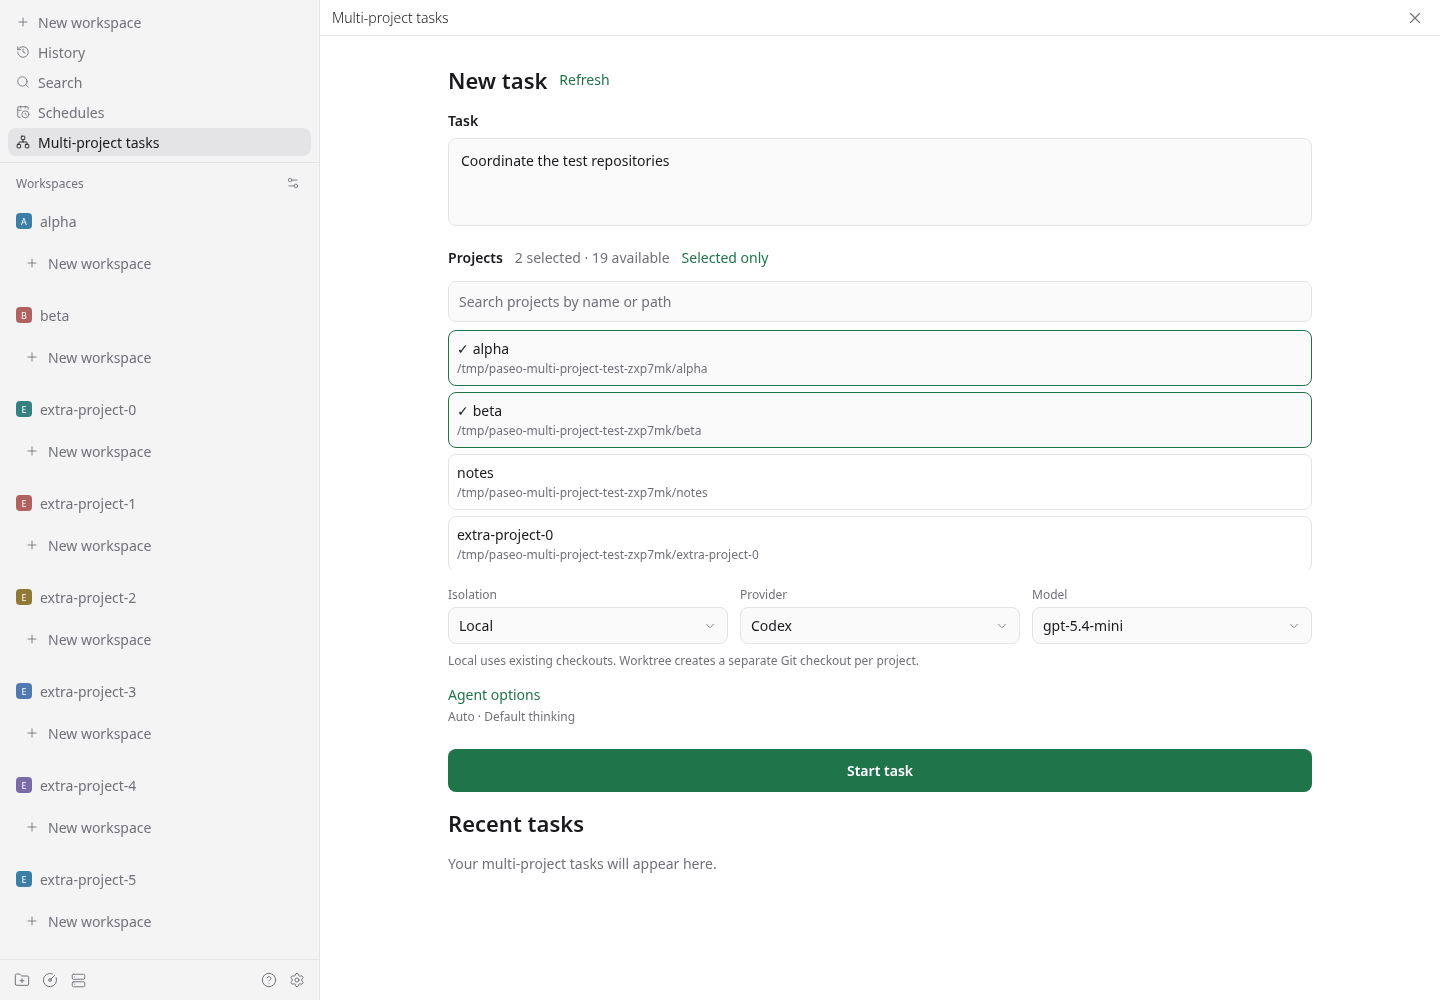
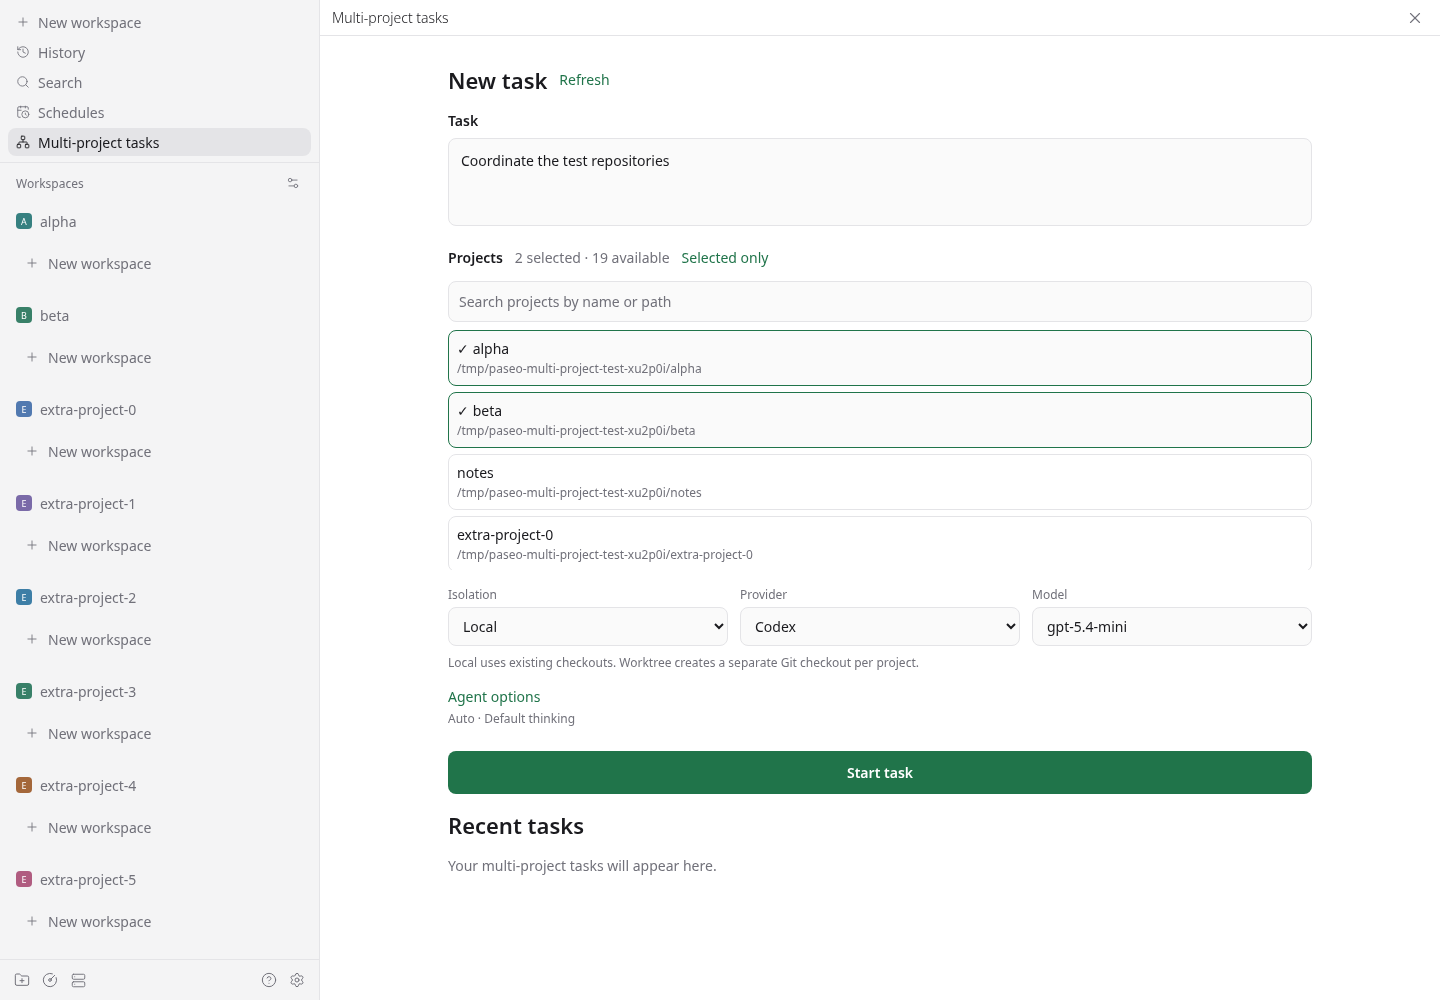
fix: use standard comboboxes for compact task settings

diff --git a/client/compact-select.tsx b/client/compact-select.tsx
@@ -1,110 +1,33 @@
-import { useState } from "react";
-import { Pressable, Text, View } from "react-native";
+import { Platform, Text, View } from "react-native";
 import type { PluginScreenProps } from "@getpaseo/plugin/client";
-import { Icon, Modal, ScrollView, TextInput } from "@getpaseo/plugin/client/ui";
+import { SettingsSelect } from "@getpaseo/plugin/client/ui";
+import { renderWebSelect } from "./web";
 
-export function CompactSelect<Value extends string>({
-  label,
-  value,
-  options,
-  disabled,
-  theme,
-  onValueChange,
-}: {
+export interface CompactSelectProps<Value extends string> {
   label: string;
   value: Value;
   options: readonly { value: Value; label: string }[];
   disabled?: boolean;
   theme: PluginScreenProps["theme"];
   onValueChange(value: Value): void;
-}) {
-  const [open, setOpen] = useState(false);
-  const [search, setSearch] = useState("");
-  const colors = theme.colors;
-  const selected = options.find((option) => option.value === value)?.label || value;
-  const visible = options.filter((option) =>
-    option.label.toLocaleLowerCase().includes(search.trim().toLocaleLowerCase()),
-  );
+}
+
+export function CompactSelect<Value extends string>(props: CompactSelectProps<Value>) {
+  if (Platform.OS !== "web") {
+    return (
+      <SettingsSelect
+        label={props.label}
+        value={props.value}
+        options={props.options}
+        disabled={props.disabled}
+        onValueChange={props.onValueChange}
+      />
+    );
+  }
   return (
     <View style={{ gap: 4 }}>
-      <Text style={{ color: colors.foregroundMuted, fontSize: 12 }}>{label}</Text>
-      <Pressable
-        accessibilityRole="button"
-        accessibilityLabel={`${label}: ${selected}`}
-        disabled={disabled}
-        onPress={() => {
-          setSearch("");
-          setOpen(true);
-        }}
-        style={{
-          flexDirection: "row",
-          alignItems: "center",
-          gap: 8,
-          borderWidth: 1,
-          borderColor: colors.border,
-          borderRadius: 8,
-          paddingHorizontal: 10,
-          paddingVertical: 8,
-          backgroundColor: colors.surface1,
-          opacity: disabled ? 0.5 : 1,
-        }}
-      >
-        <Text numberOfLines={1} style={{ color: colors.foreground, flex: 1 }}>
-          {selected}
-        </Text>
-        <Icon name="ChevronDown" size={14} color={colors.foregroundMuted} />
-      </Pressable>
-      <Modal title={label} open={open} onOpenChange={setOpen}>
-        <Modal.Content scrollable={false}>
-          {options.length > 8 ? (
-            <TextInput
-              accessibilityLabel={`Search ${label.toLowerCase()}`}
-              value={search}
-              onChangeText={setSearch}
-              placeholder="Search options"
-              placeholderTextColor={colors.foregroundMuted}
-              style={{
-                color: colors.foreground,
-                padding: 10,
-                borderWidth: 1,
-                borderColor: colors.border,
-                borderRadius: 8,
-              }}
-            />
-          ) : null}
-          <ScrollView
-            style={{ maxHeight: 360 }}
-            contentContainerStyle={{ gap: 4 }}
-            nestedScrollEnabled
-          >
-            {visible.map((option) => (
-              <Pressable
-                key={option.value}
-                accessibilityRole="radio"
-                accessibilityLabel={option.label}
-                accessibilityState={{ checked: value === option.value }}
-                onPress={() => {
-                  onValueChange(option.value);
-                  setOpen(false);
-                }}
-                style={{
-                  padding: 12,
-                  backgroundColor: value === option.value ? colors.surface1 : undefined,
-                  borderRadius: 8,
-                }}
-              >
-                <Text style={{ color: colors.foreground }}>
-                  {value === option.value ? "✓ " : ""}
-                  {option.label}
-                </Text>
-              </Pressable>
-            ))}
-            {visible.length === 0 ? (
-              <Text style={{ color: colors.foregroundMuted }}>No matching options.</Text>
-            ) : null}
-          </ScrollView>
-        </Modal.Content>
-      </Modal>
+      <Text style={{ color: props.theme.colors.foregroundMuted, fontSize: 12 }}>{props.label}</Text>
+      {renderWebSelect(props)}
     </View>
   );
 }

diff --git a/tests/browser.spec.ts b/tests/browser.spec.ts
@@ -101,8 +101,8 @@ for (const compact of [false, true]) {
       const picker = await page.getByTestId("multi-project-projects").boundingBox();
       expect(picker!.height).toBeLessThanOrEqual(compact ? 201 : 241);
       // Isolation can be chosen while the form is still empty.
-      await page.getByText("Local", { exact: true }).click();
-      await page.getByRole("radio", { name: "Worktree", exact: true }).click();
+      await page.getByRole("combobox", { name: "Isolation", exact: true }).selectOption("worktree");
+      await expect(page.getByRole("dialog")).toHaveCount(0);
       await page.getByTestId("multi-project-prompt").fill("Coordinate the test repositories");
       const search = page.getByTestId("multi-project-project-search");
       await search.fill("does-not-match");
@@ -116,23 +116,31 @@ for (const compact of [false, true]) {
       await page.getByTestId("multi-project-selected-only").click();
       await expect(page.getByTestId("multi-project-projects").getByRole("checkbox")).toHaveCount(2);
       await page.getByTestId("multi-project-selected-only").click();
-      await expect(page.getByText("Worktree", { exact: true })).toBeVisible();
+      await expect(page.getByRole("combobox", { name: "Isolation", exact: true })).toHaveValue(
+        "worktree",
+      );
       const notes = f.projects.find((p) => p.projectKind !== "git")!;
       await search.fill(notes.projectDisplayName);
       await page.getByTestId(`multi-project-target-${notes.projectId}`).click();
-      await expect(page.getByText("Local", { exact: true })).toBeVisible();
+      await expect(page.getByRole("combobox", { name: "Isolation", exact: true })).toHaveValue(
+        "local",
+      );
+      await expect(page.getByRole("combobox", { name: "Isolation", exact: true })).toBeDisabled();
       await expect(
         page.getByText("Worktree requires every selected project to be a Git repository."),
       ).toBeVisible();
       await page.getByTestId(`multi-project-target-${notes.projectId}`).click();
       await search.fill("");
-      await page.getByText("Select a provider", { exact: true }).click();
-      await page.getByRole("radio", { name: "Codex", exact: true }).click();
+      await page.getByRole("combobox", { name: "Provider", exact: true }).selectOption("codex");
+      await expect(page.getByRole("combobox", { name: "Model", exact: true })).toHaveValue(
+        "gpt-5.4-mini",
+      );
+      await expect(page.getByRole("dialog")).toHaveCount(0);
       await expect(page.getByTestId("multi-project-agent-options")).toHaveCount(0);
       await page.getByTestId("multi-project-options-toggle").click();
       await expect(page.getByTestId("multi-project-agent-options")).toBeVisible();
-      await page.getByRole("button", { name: "Mode: Provider default", exact: true }).click();
-      await page.getByRole("radio", { name: "Auto", exact: true }).click();
+      await page.getByRole("combobox", { name: "Mode", exact: true }).selectOption("auto");
+      await expect(page.getByRole("dialog")).toHaveCount(0);
       await page.getByTestId("multi-project-options-toggle").click();
       await expect(page.getByTestId("multi-project-options-summary")).toContainText("Auto");
       await expect(page.getByTestId("multi-project-launch")).toBeEnabled();

diff --git a/client/web.ts b/client/web.ts
@@ -1,0 +1,50 @@
+import { createElement, type ChangeEvent } from "react";
+import { Platform } from "react-native";
+import type { CompactSelectProps } from "./compact-select";
+
+// Browser elements stay behind this gate; native uses the host's SettingsSelect.
+export function renderWebSelect<Value extends string>({
+  label,
+  value,
+  options,
+  disabled,
+  theme,
+  onValueChange,
+}: CompactSelectProps<Value>) {
+  if (Platform.OS !== "web") return null;
+  const colors = theme.colors;
+  return createElement(
+    "select",
+    {
+      "aria-label": label,
+      value,
+      disabled,
+      onChange: (event: ChangeEvent<HTMLSelectElement>) =>
+        onValueChange(event.currentTarget.value as Value),
+      style: {
+        width: "100%",
+        minWidth: 0,
+        boxSizing: "border-box",
+        font: "inherit",
+        fontSize: 14,
+        padding: "8px 10px",
+        border: `1px solid ${colors.border}`,
+        borderRadius: 8,
+        backgroundColor: colors.surface1,
+        color: colors.foreground,
+        opacity: disabled ? 0.5 : 1,
+      },
+    },
+    options.map((option) =>
+      createElement(
+        "option",
+        {
+          key: option.value,
+          value: option.value,
+          style: { backgroundColor: colors.surface1, color: colors.foreground },
+        },
+        option.label,
+      ),
+    ),
+  );
+}

diff --git a/docs/validation.md b/docs/validation.md
@@ -4,7 +4,7 @@ Baseline: unmodified published Paseo 0.15.4 packages, Node 22.20.0, Linux x86_64
 
 - `npm run test:unit`: 9 tests passed. Covers target validation, Worktree selection before targets, non-Git gating, required inputs, duplicate submission, frozen pending input and identical retry after a lost response.
 - `npm run test:compat`: 7 tests passed. Real isolated stock daemon, plugin subprocess/compiler, and SDK transport; typed test provider adapter. Exercises MCP and native tool catalogs, scoped discovery, Local/Worktree creation, parent links, concurrent completion envelopes, idempotent coordinator creation, stale targets and disabled host tools. Archive coverage includes same-workspace and cross-project workers, nested subagents, keeping workers, rejecting unrelated agents, repeated requests and retry after a partial worker failure. A packed copy without development node_modules is also compiled and loaded by the stock host.
-- `npm run test:browser`: 2 tests passed. The stock package's real web UI and Chromium, with a real isolated daemon. Desktop and compact browser layouts with 19 registered projects: bounded/searchable selection, selected-only filtering, empty-form Refresh without a features request, visible isolation, expandable agent options with retained settings, launch policy failure/retry, coordinator navigation and task listing. Archive tests exercise confirmation cancellation, a real daemon validation error injected through the test transport, visible retry and both worker choices. Screenshots are saved in `artifacts/`.
+- `npm run test:browser`: 2 tests passed. The stock package's real web UI and Chromium, with a real isolated daemon. Desktop and compact browser layouts with 19 registered projects: bounded/searchable selection, selected-only filtering, empty-form Refresh without a features request, standard combobox selection without application dialogs, visible isolation, expandable agent options with retained settings, launch policy failure/retry, coordinator navigation and task listing. Archive tests exercise confirmation cancellation, a real daemon validation error injected through the test transport, visible retry and both worker choices. Screenshots are saved in `artifacts/`.
 - `npm run typecheck` and `npm run lint`: passed.
 - v0.1.0 real-provider baseline, unchanged orchestration: `PASEO_SMOKE_MODE=full-access npm run test:real`: 1 test passed in 51.28 seconds with installed Codex 0.169.0 / gpt-6.1-sol. The user explicitly approved Full access for these throwaway test agents. A real coordinator launched two children, each returned PROJECT_CHECK after reading its README, and the coordinator's final assistant answer contained COORDINATOR_RESULT for both projects. Both Git working trees remained clean. The earlier Auto run stopped at a tool permission request without granting it.
 
